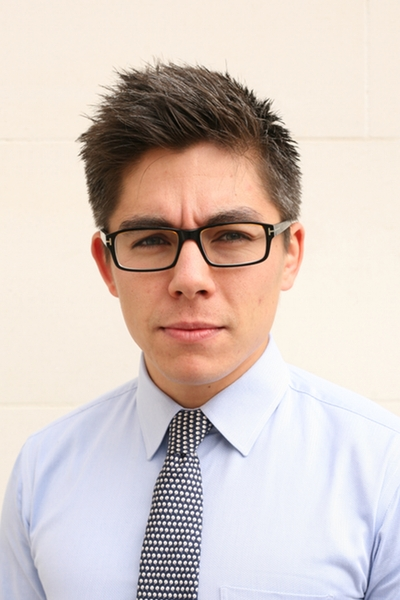
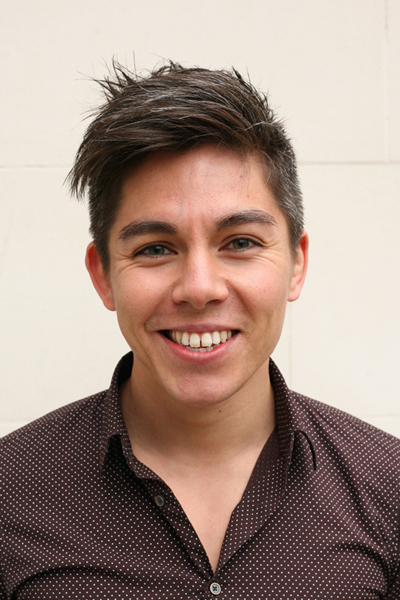
Added new starters to About page and updated some existing photos

diff --git a/pages/about/index.html b/pages/about/index.html
@@ -169,21 +169,6 @@
       </div>
     </a>
 
-    <a href="javascript:;" class="team-member" data-popover="" data-content="Alex previously ran an independent video games company. He also once
-      worked at Google, where he specialised in software testability. He
-      spends his spare time sailing on the Thames." data-original-title="Alex McAusland">
-      <div class="grid__cell u-1of6 u-padding-Bs">
-        <img src="/images/team/alex@2x.png" alt="Alex McAusland">
-        <h4 class="section-subheading u-margin-Ts">
-          Alex McAusland
-        </h4>
-      </div>
-    </a>
-
-  </div>
-
-  <div class="grid u-margin-Bl u-margin-Tl">
-
     <a href="javascript:;" class="team-member" data-popover="" data-content="Prior to joining GoCardless, Maria's administrative career included roles
       in environmental policy and political fundraising. She has an MA in
       Philosophy from Cambridge and an MA in English &amp; American Literature." data-original-title="Maria Campbell">
@@ -194,6 +179,10 @@
         </h4>
       </div>
     </a>
+
+  </div>
+
+  <div class="grid u-margin-Bl u-margin-Tl">
 
     <a href="javascript:;" class="team-member" data-popover="" data-content="Before joining GoCardless, Kit founded a number of businesses as part of the
       Entrepreneur First programme. Kit studied Law at King's College London and is an
@@ -257,10 +246,6 @@
       </div>
     </a>
 
-  </div>
-
-  <div class="grid u-margin-Bl u-margin-Tl">
-
     <a href="javascript:;" class="team-member" data-popover="" data-content="Daniel graduated from Lancaster University in 2009 with a BA in Politics
       and International Relations.
       <br><br>
@@ -274,6 +259,10 @@
         </h4>
       </div>
     </a>
+
+  </div>
+
+  <div class="grid u-margin-Bl u-margin-Tl">
 
     <a href="javascript:;" class="team-member" data-popover="" data-content="Helen holds a degree in Media Studies and Cultural Studies from the University of Sussex, and worked in artist liaison for Last.fm after graduating.
       <br><br>
@@ -330,10 +319,6 @@
       </div>
     </a>
 
-  </div>
-
-  <div class="grid u-margin-Bl u-margin-Tl">
-
     <a href="javascript:;" class="team-member" data-popover="" data-content="Before joining GoCardless, Amelia studied Geography at the University of Southampton and worked as a Recruitment Consultant within technology after graduating.
       <br><br>
       Amelia spends her spare time rowing, and often hears friends and colleagues say 'Oh, do you row?' (she talks about it a lot)." data-original-title="Amelia Munsey">
@@ -344,6 +329,10 @@
         </h4>
       </div>
     </a>
+
+  </div>
+
+  <div class="grid u-margin-Bl u-margin-Tl">
 
     <a href="javascript:;" class="team-member" data-popover="" data-content="Before joining GoCardless, Andrew was VP of Growth at RESAAS where he built software and drove user growth.
       <br><br>
@@ -389,7 +378,79 @@
       </div>
     </a>
 
+    <a href="javascript:;" class="team-member" data-popover="" data-content="Before joining GoCardless, Matt worked at OC&amp;C Strategy Consultants, having studied Philosophy at Cambridge.
+  <br><br>
+  In his spare time, he practices Brazilian Jiu-Jitsu." data-original-title="Matt Cummins">
+      <div class="grid__cell u-1of6 u-padding-Bs">
+        <img src="/images/team/mattc@2x.jpg" alt="Matt Cummins">
+        <h4 class="section-subheading u-margin-Ts">
+          Matt Cummins
+        </h4>
+      </div>
+    </a>
+
+    <a href="javascript:;" class="team-member" data-popover="" data-content="James has a Business Studies degree from The University of Liverpool and an unhealthy obsession with US sports.
+    <br><br>
+    Previously he worked in property and politics." data-original-title="James Jackson">
+      <div class="grid__cell u-1of6 u-padding-Bs">
+        <img src="/images/team/jamesj@2x.jpg" alt="James Jackson">
+        <h4 class="section-subheading u-margin-Ts">
+          James Jackson
+        </h4>
+      </div>
+    </a>
+
   </div>
+
+  <div class="grid u-margin-Bl u-margin-Tl">
+
+    <a href="javascript:;" class="team-member" data-popover="" data-content="Astrid graduated in Literature at the Sorbonne and in Business. Prior working for GoCardless she had experience in International Institutions, SaaS and the Media sector.
+  <br><br>
+  In her spare time, she is a travel geek and a devoted cinema enthusiast. Her middle-term goal is to eventually enjoy running." data-original-title="Astrid Hugentobler">
+      <div class="grid__cell u-1of6 u-padding-Bs">
+        <img src="/images/team/astrid@2x.jpg" alt="Astrid Hugentobler">
+        <h4 class="section-subheading u-margin-Ts">
+          Astrid Hugentobler
+        </h4>
+      </div>
+    </a>
+
+    <a href="javascript:;" class="team-member" data-popover="" data-content="Before joining the GoCardless engineering team, James worked as a freelance designer &amp; developer.
+  <br><br>
+  In his spare time James is an illustrator &amp; animator and also writes, records, produces and performs music." data-original-title="James Shedden">
+      <div class="grid__cell u-1of6 u-padding-Bs">
+        <img src="/images/team/jamess@2x.jpg" alt="James Shedden">
+        <h4 class="section-subheading u-margin-Ts">
+          James Shedden
+        </h4>
+      </div>
+    </a>
+
+    <a href="javascript:;" class="team-member" data-popover="" data-content="Ravin read PPE at Oxford where he founded the International Relations
+  Society, worked at Google and lead mobile strategy at The Hut Group.
+  <br><br>
+  In his spare time Ravin plays chess, water-skis and tries to explain the
+  pronunciation of his surname." data-original-title="Ravin Thambapillai">
+      <div class="grid__cell u-1of6 u-padding-Bs">
+        <img src="/images/team/ravin@2x.jpg" alt="Ravin Thambapillai">
+        <h4 class="section-subheading u-margin-Ts">
+          Ravin Thambapillai
+        </h4>
+      </div>
+    </a>
+
+    <a href="javascript:;" class="team-member" data-popover="" data-content="Angus joined GoCardless after two years of postgraduate research in nanotechnology.
+  <br><br>
+  When not optimising websites, he writes and plays jazz/experimental music." data-original-title="Angus Bayley">
+      <div class="grid__cell u-1of6 u-padding-Bs">
+        <img src="/images/team/angus@2x.jpg" alt="Angus Bayley">
+        <h4 class="section-subheading u-margin-Ts">
+          Angus Bayley
+        </h4>
+      </div>
+    </a>
+</div>
+
 
   <hr>
 

diff --git a/gulpfile.js b/gulpfile.js
@@ -92,7 +92,7 @@ function templateMetadata() {
   return {
     ENV_PRODUCTION: isProduction,
     MIXPANEL_TOKEN: mixpanelToken,
-    TRADING_ADDRESS: '22-25 Finsbury Square, London, EC2A 1DX',
+    TRADING_ADDRESS: '22-25 Finsbury Square<br>London, EC2A 1DX',
     SUPPORT_CONTACT_NUMBER: '020 7183 8674',
     SUPPORT_EMAIL: 'help@gocardless.com',
     GITHUB_LINK: 'http://github.com/gocardless',
